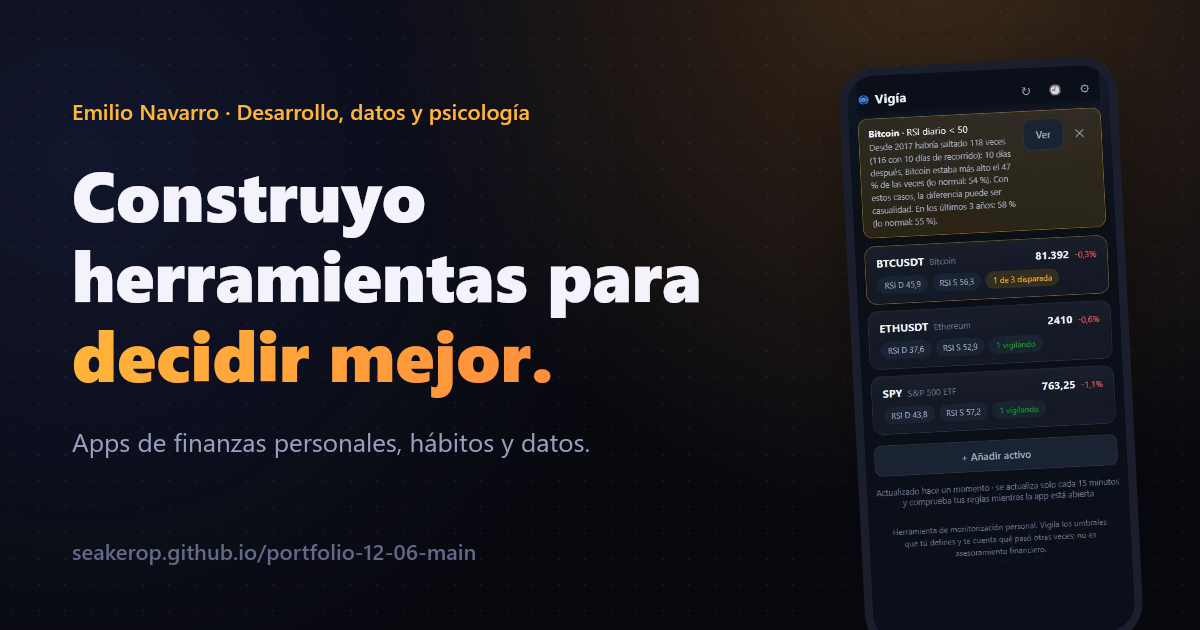
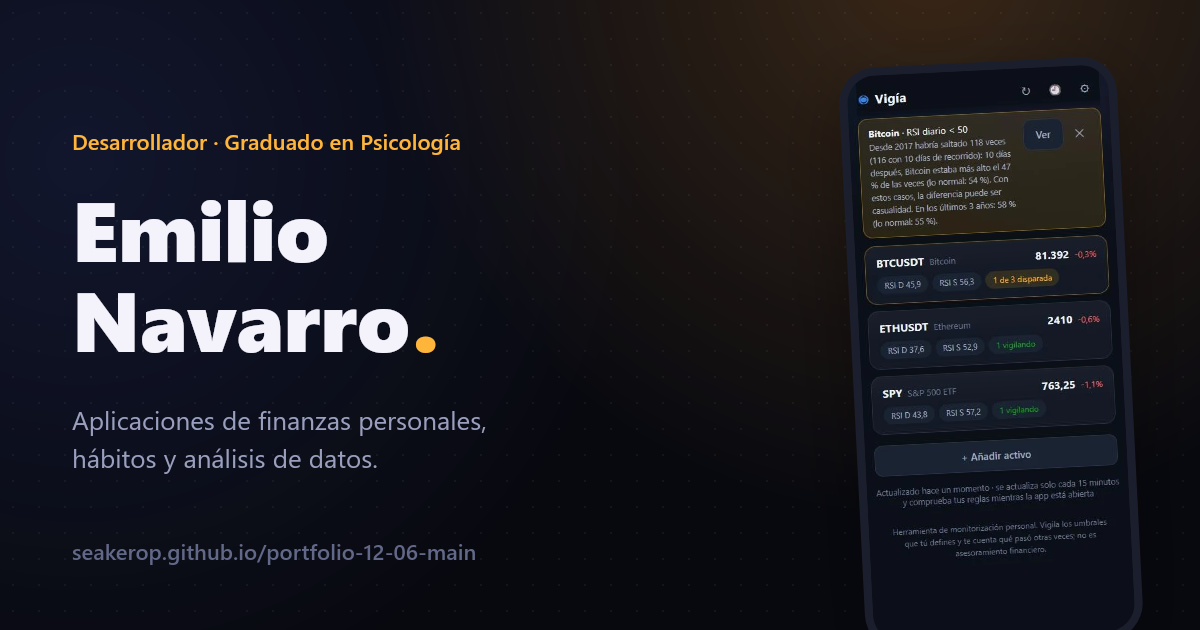
Textos más sobrios en todo el portfolio

Changed region(s): [[0.0617, 0.2714, 0.5858, 0.6333], [0.0617, 0.1508, 0.4317, 0.2413], [0.0617, 0.6635, 0.4933, 0.754]]

diff --git a/index.html b/index.html
@@ -5,13 +5,13 @@
   <meta charset="UTF-8" />
   <meta name="viewport" content="width=device-width, initial-scale=1.0" />
   <meta name="theme-color" content="#08090f" />
-  <title>Emilio Navarro · Desarrollo, datos y psicología</title>
+  <title>Emilio Navarro · Desarrollador y graduado en Psicología</title>
   <meta name="description"
-    content="Emilio Navarro: desarrollador (DAM) y graduado en Psicología. Construyo herramientas para decidir mejor: finanzas personales, hábitos y datos." />
+    content="Portfolio de Emilio Navarro, desarrollador de aplicaciones (DAM) y graduado en Psicología. Aplicaciones de finanzas personales, hábitos y análisis de datos." />
   <meta property="og:type" content="website" />
   <meta property="og:url" content="https://seakerop.github.io/portfolio-12-06-main/" />
-  <meta property="og:title" content="Emilio Navarro · Desarrollo, datos y psicología" />
-  <meta property="og:description" content="Herramientas para decidir mejor: finanzas personales, hábitos y datos." />
+  <meta property="og:title" content="Emilio Navarro · Desarrollador y graduado en Psicología" />
+  <meta property="og:description" content="Aplicaciones de finanzas personales, hábitos y análisis de datos." />
   <meta property="og:image" content="https://seakerop.github.io/portfolio-12-06-main/og.png" />
   <meta name="twitter:card" content="summary_large_image" />
   <link rel="icon"
@@ -40,21 +40,20 @@
     <!-- ═══ hero ═══ -->
     <section class="hero">
       <div class="hero-text">
-        <p class="eyebrow reveal">Emilio Navarro · Desarrollador y graduado en Psicología</p>
-        <h1 class="reveal">Construyo herramientas para <span class="hl">decidir mejor</span><span class="dot">.</span></h1>
+        <p class="eyebrow reveal">Desarrollador · Graduado en Psicología</p>
+        <h1 class="reveal">Emilio Navarro<span class="dot">.</span></h1>
         <p class="hero-sub reveal">
-          Apps de finanzas personales, hábitos y datos. Las programo como desarrollador y las pienso como psicólogo:
-          qué necesita saber quien las usa, y qué número le está engañando.
+          Desarrollo aplicaciones de finanzas personales, seguimiento de hábitos y análisis de datos. Técnico Superior
+          en Desarrollo de Aplicaciones Multiplataforma y graduado en Psicología.
         </p>
         <div class="hero-cta reveal">
           <a class="btn btn-solid" href="#proyectos">Ver proyectos</a>
-          <a class="btn btn-line" href="mailto:saldorf1994@gmail.com">Escríbeme</a>
+          <a class="btn btn-line" href="mailto:saldorf1994@gmail.com">Contacto</a>
           <a class="btn btn-ghost" href="https://github.com/seakerop" target="_blank" rel="noreferrer">GitHub ↗</a>
         </div>
         <ul class="proof reveal" aria-label="En cifras">
-          <li><b>4</b><span>apps publicadas</span></li>
+          <li><b>4</b><span>aplicaciones publicadas</span></li>
           <li><b>3</b><span>con demo en vivo</span></li>
-          <li><b>9,9</b><span>en el TFG de Psicología</span></li>
           <li><b>C2</b><span>de inglés</span></li>
         </ul>
       </div>
@@ -63,19 +62,17 @@
         <figure class="phone p-back"><img src="img/boveda/2-activo.webp" alt="" fetchpriority="high" /></figure>
         <figure class="phone p-front"><img src="img/vigia/1-avisos.webp" alt="" fetchpriority="high" /></figure>
         <figure class="phone p-side"><img src="img/fzth/1-home.webp" alt="" /></figure>
-        <span class="float-chip chip-a"><i class="led"></i> Demo en vivo</span>
-        <span class="float-chip chip-b mono">36 tests · PWA</span>
       </div>
     </section>
 
-    <p class="now reveal"><span class="pulse"></span> Ahora mismo: midiendo con cien años de datos qué indicadores de bolsa y de Bitcoin predicen algo de verdad. Spoiler: casi ninguno.</p>
+    <p class="now reveal"><span class="pulse"></span> Actualmente: estudio sobre la capacidad predictiva de los indicadores de inversión más usados en bolsa y en Bitcoin.</p>
 
     <!-- ═══ proyectos ═══ -->
     <section id="proyectos">
       <div class="sec-head reveal">
         <span class="sec-num mono">01</span>
         <h2>Proyectos</h2>
-        <p>Todo lo hago para usarlo yo. Por eso están vivos: siguen cambiando cada vez que algo me molesta.</p>
+        <p>Aplicaciones diseñadas y desarrolladas de principio a fin, que uso y mantengo.</p>
       </div>
 
       <!-- destacado: Vigía -->
@@ -85,24 +82,23 @@
             <h3>Vigía</h3>
             <span class="badge badge-new">Nuevo</span>
           </div>
-          <p class="lede">Alertas de mercado que te cuentan qué pasó las otras veces.</p>
+          <p class="lede">Alertas de mercado con contexto histórico.</p>
           <p>
-            Pongo umbrales sobre mi watchlist ("avísame si el RSI de Bitcoin baja de 30") y Vigía me avisa. Lo
-            distinto es que antes de guardar la regla la prueba contra años de historia de ese activo: cuántas veces
-            habría saltado y qué hizo el precio 5, 10 y 30 días después, frente a lo normal. Descubrí que muchas
-            señales clásicas no significan lo que se cree, así que la app lo dice en cada aviso.
+            Permite definir alertas sobre una lista de activos, por ejemplo cuando el RSI de Bitcoin baja de 30. Antes
+            de guardar cada regla, la contrasta con el histórico del activo: cuántas veces se habría activado y cómo
+            evolucionó el precio a 5, 10 y 30 días en comparación con la media. Ese resumen acompaña a cada aviso.
           </p>
           <ul class="checks">
-            <li>Repite la historia vela a vela con la misma lógica que los avisos reales</li>
-            <li>Prueba binomial con casos independientes y una mirada aparte a los últimos tres años</li>
-            <li>En Bitcoin, la fase del ciclo del halving con los datos de los ciclos anteriores</li>
+            <li>Simulación sobre el histórico con la misma lógica que las alertas reales</li>
+            <li>Contraste binomial con casos independientes y análisis aparte de los últimos tres años</li>
+            <li>Para Bitcoin, fase del ciclo del halving con datos de los ciclos anteriores</li>
           </ul>
           <div class="stack">
             <span>React</span><span>Vite</span><span>Estadística</span><span>Binance y Yahoo</span><span>Vitest</span><span>PWA</span>
           </div>
           <div class="card-links">
-            <a class="link-solid" href="https://vigia-fawn.vercel.app" target="_blank" rel="noreferrer">Abrir la demo ↗</a>
-            <button type="button" class="shots-link" data-shots="vigia">Cómo funciona →</button>
+            <a class="link-solid" href="https://vigia-fawn.vercel.app" target="_blank" rel="noreferrer">Ver demo ↗</a>
+            <button type="button" class="shots-link" data-shots="vigia">Capturas →</button>
             <a href="https://github.com/seakerop/vigia" target="_blank" rel="noreferrer">Código →</a>
           </div>
         </div>
@@ -120,14 +116,14 @@
           <div class="card-body">
             <div class="card-top"><h3>Bóveda</h3><span class="tag mono">Finanzas</span></div>
             <p>
-              Todo mi patrimonio en una pantalla —cripto, bolsa, el piso— con el neto de verdad: descuenta sola la
-              hipoteca cada mes y simula si conviene amortizar en cuota o en plazo. Cifrada entera en el dispositivo,
-              con desbloqueo por huella y una contraseña señuelo que abre una cartera falsa.
+              Gestor de patrimonio personal (criptomonedas, bolsa e inmuebles) que calcula el patrimonio neto
+              descontando la hipoteca mes a mes e incluye un simulador de amortización anticipada. Los datos se cifran
+              en el dispositivo, con desbloqueo biométrico y una contraseña alternativa que muestra una cartera ficticia.
             </p>
             <div class="stack"><span>React</span><span>Web Crypto</span><span>WebAuthn</span><span>IndexedDB</span></div>
             <div class="card-links">
               <a href="https://boveda-ivory.vercel.app" target="_blank" rel="noreferrer">Demo ↗</a>
-              <button type="button" class="shots-link" data-shots="boveda">Cómo funciona →</button>
+              <button type="button" class="shots-link" data-shots="boveda">Capturas →</button>
               <a href="https://github.com/seakerop/boveda" target="_blank" rel="noreferrer">Código →</a>
             </div>
           </div>
@@ -135,19 +131,19 @@
 
         <article class="card reveal">
           <div class="card-shot shot-gym">
-            <figure class="phone"><img src="img/fzth/1-home.webp" alt="Ficha del héroe en FromZeroToHero" loading="lazy" /></figure>
+            <figure class="phone"><img src="img/fzth/1-home.webp" alt="Pantalla principal de FromZeroToHero" loading="lazy" /></figure>
           </div>
           <div class="card-body">
             <div class="card-top"><h3>FromZeroToHero</h3><span class="tag mono">Hábitos</span></div>
             <p>
-              Voy al gimnasio, así que me hice el juego: cada sesión da experiencia y mi avatar es un árbol que crece
-              con los días en que hago algo. El peso corporal nunca da puntos. En el banco veo lo que levanté la
-              última vez, los récords saltan solos y los domingos le mando mi semana a mi hermano: nuestro pacto.
+              Seguimiento de entrenamiento con mecánicas de juego: cada sesión suma experiencia y el progreso se
+              representa con un árbol que crece con los días activos. Muestra las cargas de la sesión anterior, detecta
+              récords personales y genera un resumen semanal para compartir. El peso corporal no puntúa.
             </p>
             <div class="stack"><span>React</span><span>IndexedDB</span><span>SVG</span><span>PWA</span></div>
             <div class="card-links">
               <a href="https://seakerop.github.io/fromzerotohero/" target="_blank" rel="noreferrer">Demo ↗</a>
-              <button type="button" class="shots-link" data-shots="fzth">Cómo funciona →</button>
+              <button type="button" class="shots-link" data-shots="fzth">Capturas →</button>
               <a href="https://github.com/seakerop/fromzerotohero" target="_blank" rel="noreferrer">Código →</a>
             </div>
           </div>
@@ -155,18 +151,18 @@
 
         <article class="card reveal">
           <div class="card-shot shot-life">
-            <figure class="phone"><img src="img/lifecraft/2-home.webp" alt="Pantalla de juego de LifeCraft" loading="lazy" /></figure>
+            <figure class="phone"><img src="img/lifecraft/2-home.webp" alt="Pantalla principal de LifeCraft" loading="lazy" /></figure>
           </div>
           <div class="card-body">
             <div class="card-top"><h3>LifeCraft</h3><span class="tag mono">Hábitos</span></div>
             <p>
-              La fuerza de voluntad convertida en un juego de rol: cada hábito, bueno o malo, aplica un efecto con
-              duración real sobre mis atributos. Misiones diarias, un jefe semanal al que los hábitos dañan y los
-              vicios curan, y un códice con la fisiología real de cada efecto.
+              Seguimiento de hábitos planteado como un juego de rol: cada hábito aplica un efecto temporal sobre los
+              atributos del personaje. Incluye misiones diarias, un objetivo semanal y fichas informativas sobre el
+              efecto fisiológico de cada hábito.
             </p>
             <div class="stack"><span>React</span><span>Vite</span><span>IndexedDB</span><span>PWA</span></div>
             <div class="card-links">
-              <button type="button" class="shots-link" data-shots="lifecraft">Cómo funciona →</button>
+              <button type="button" class="shots-link" data-shots="lifecraft">Capturas →</button>
               <a href="https://github.com/seakerop/lifecraft" target="_blank" rel="noreferrer">Código →</a>
             </div>
           </div>
@@ -174,19 +170,19 @@
 
         <article class="card reveal">
           <div class="card-shot shot-cine">
-            <figure class="phone"><img src="img/cinematch/3-swipe.webp" alt="Mazo de películas en CineMatch" loading="lazy" /></figure>
+            <figure class="phone"><img src="img/cinematch/3-swipe.webp" alt="Catálogo de películas en CineMatch" loading="lazy" /></figure>
           </div>
           <div class="card-body">
             <div class="card-top"><h3>CineMatch</h3><span class="badge badge-wip">En desarrollo</span></div>
             <p>
-              En casa tardábamos más en elegir peli que en verla. Cada uno desliza en su móvil sobre el mismo mazo y
-              cuando los dos decimos que sí, hay match. Sesiones en tiempo real entre dispositivos y catálogo de TMDB
-              filtrado por plataforma, duración y lo que ya hemos visto.
+              Aplicación para elegir película entre varias personas: cada una valora el mismo catálogo desde su móvil
+              y la app muestra las coincidencias. Sesiones en tiempo real entre dispositivos y catálogo de TMDB filtrado
+              por plataforma, duración y títulos ya vistos.
             </p>
             <div class="stack"><span>React</span><span>Firebase</span><span>TMDB API</span><span>PWA</span></div>
             <div class="card-links">
-              <button type="button" class="shots-link" data-shots="cinematch">Cómo funciona →</button>
-              <span class="soon">Demo pronto</span>
+              <button type="button" class="shots-link" data-shots="cinematch">Capturas →</button>
+              <span class="soon">Demo próximamente</span>
             </div>
           </div>
         </article>
@@ -198,24 +194,23 @@
       <div class="sec-head reveal">
         <span class="sec-num mono">02</span>
         <h2>Perfil</h2>
-        <p>Un perfil poco habitual: código, datos y psicología en la misma cabeza.</p>
       </div>
 
       <div class="pillars">
         <div class="pillar reveal">
           <span class="pillar-k mono">Producto</span>
-          <h3>Apps pequeñas y terminadas</h3>
-          <p>Prefiero una herramienta cuidada a una grande a medias: estados vacíos, errores que se explican, que funcione sin conexión y con pruebas automáticas detrás.</p>
+          <h3>Desarrollo de aplicaciones</h3>
+          <p>Aplicaciones completas y mantenidas: funcionamiento sin conexión, gestión de errores y pruebas automáticas.</p>
         </div>
         <div class="pillar reveal">
           <span class="pillar-k mono">Datos</span>
-          <h3>Medir antes de creer</h3>
-          <p>Antes de fiarme de una regla, la pongo a prueba con datos: correlaciones, bootstrap, corrección por comparaciones múltiples. Si no aguanta, se dice.</p>
+          <h3>Análisis de datos</h3>
+          <p>Validación de hipótesis con datos: correlaciones, bootstrap y corrección por comparaciones múltiples.</p>
         </div>
         <div class="pillar reveal">
           <span class="pillar-k mono">Personas</span>
-          <h3>Diseñar para cómo decidimos</h3>
-          <p>La psicología me sirve para lo que no sale en el código: qué motiva a volver, qué frustra y qué número nos lleva a engaño.</p>
+          <h3>Psicología aplicada</h3>
+          <p>Formación en psicología aplicada al diseño: motivación, toma de decisiones y experiencia de uso.</p>
         </div>
       </div>
 
@@ -227,7 +222,7 @@
               <span class="when mono">2026</span>
               <div>
                 <b>Grado en Psicología</b> · UNIR
-                <p>TFG sobre alfabetización financiera y bienestar, con un 9,9. <a href="https://reunir.unir.net/handle/123456789/23557" target="_blank" rel="noreferrer">Publicado en Re-UNIR ↗</a></p>
+                <p>TFG sobre alfabetización financiera y bienestar. <a href="https://reunir.unir.net/handle/123456789/23557" target="_blank" rel="noreferrer">Publicado en Re-UNIR ↗</a></p>
               </div>
             </li>
             <li>
@@ -240,14 +235,14 @@
               <span class="when mono">2025</span>
               <div>
                 <b>Prácticas de desarrollo RPA</b> · NEORIS
-                <p>Robots de automatización con UiPath dentro de un equipo de consultoría: análisis del proceso, construcción, pruebas y documentación.</p>
+                <p>Desarrollo de robots de automatización con UiPath en un equipo de consultoría: análisis de procesos, construcción, pruebas y documentación.</p>
               </div>
             </li>
             <li>
               <span class="when mono">2019–21</span>
               <div>
                 <b>Líder de equipo de ayuda humanitaria</b> · YWAM, EE. UU.
-                <p>Coordinación de voluntarios en equipos multiculturales: planificar, repartir responsabilidades y seguir objetivos.</p>
+                <p>Coordinación de voluntarios en equipos multiculturales: planificación, reparto de responsabilidades y seguimiento de objetivos.</p>
               </div>
             </li>
           </ol>
@@ -255,7 +250,7 @@
 
         <div class="side-blocks">
           <div class="block reveal">
-            <h3 class="block-title">Con qué trabajo</h3>
+            <h3 class="block-title">Tecnologías</h3>
             <div class="stack">
               <span>JavaScript</span><span>TypeScript</span><span>React</span><span>Node.js</span><span>Java</span><span>Kotlin</span>
               <span>SQL</span><span>Firebase</span><span>IndexedDB</span><span>Vitest y Jest</span><span>Git</span><span>UiPath</span>
@@ -274,11 +269,11 @@
     <section id="contacto">
       <div class="contact reveal">
         <span class="sec-num mono">03</span>
-        <h2>¿Hablamos?</h2>
-        <p>Busco mi primer puesto en un equipo de producto, datos o desarrollo, y proyectos donde haga falta entender a las personas además de al código.</p>
+        <h2>Contacto</h2>
+        <p>Abierto a oportunidades en equipos de producto, datos o desarrollo.</p>
         <a class="mail" href="mailto:saldorf1994@gmail.com">saldorf1994@gmail.com</a>
         <div class="hero-cta">
-          <a class="btn btn-solid" href="mailto:saldorf1994@gmail.com">Escríbeme</a>
+          <a class="btn btn-solid" href="mailto:saldorf1994@gmail.com">Enviar un correo</a>
           <a class="btn btn-line" href="https://github.com/seakerop" target="_blank" rel="noreferrer">GitHub ↗</a>
         </div>
       </div>
@@ -299,7 +294,7 @@
   </div>
 
   <footer>
-    <p>© 2026 Emilio Navarro · Hecho a mano, sin plantillas</p>
+    <p>© 2026 Emilio Navarro</p>
   </footer>
 
   <script>
@@ -312,54 +307,54 @@
     )
     document.querySelectorAll('.reveal').forEach((el) => io.observe(el))
 
-    // galería "cómo funciona": capturas + explicación por proyecto
+    // galería de capturas con una explicación por pantalla
     const GALLERIES = {
       vigia: {
         title: 'Vigía',
         shots: [
-          { src: 'img/vigia/1-avisos.webp', cap: 'La watchlist con un aviso recién saltado. No dice solo que el RSI bajó de 50: dice que, desde 2017, esa misma regla habría saltado 118 veces y que diez días después Bitcoin no estaba mejor que cualquier otro día.' },
-          { src: 'img/vigia/2-ficha.webp', cap: 'La ficha de cada activo: velas y RSI calculados con el mismo código que evalúa las reglas, para que lo que veo sea exactamente lo que vigila.' },
-          { src: 'img/vigia/3-probador.webp', cap: 'El probador: mientras ajusto el umbral, prueba la regla contra la historia del activo y compara con lo normal a 5, 10 y 30 días. Comprar Bitcoin con el RSI por debajo de 30 no ha dado ventaja, y en los últimos tres años, menos.' },
-          { src: 'img/vigia/4-ciclo.webp', cap: 'En Bitcoin, la fase del ciclo del halving y lo que pasó en esa fase en los ciclos anteriores. Debajo, cada regla con su resumen histórico.' },
+          { src: 'img/vigia/1-avisos.webp', cap: 'Lista de activos con un aviso activo. Junto a la regla aparece su resumen histórico: número de veces que se habría activado desde 2017 y evolución del precio a 10 días comparada con la media.' },
+          { src: 'img/vigia/2-ficha.webp', cap: 'Ficha de cada activo con velas y RSI, calculados con el mismo código que evalúa las reglas.' },
+          { src: 'img/vigia/3-probador.webp', cap: 'Al crear una regla, la aplicación la contrasta con el histórico del activo y muestra los resultados a 5, 10 y 30 días frente a la media, con una indicación de si la diferencia es significativa.' },
+          { src: 'img/vigia/4-ciclo.webp', cap: 'En Bitcoin, fase actual del ciclo del halving y comportamiento del precio en esa fase durante los ciclos anteriores. Debajo, cada regla con su resumen histórico.' },
         ],
       },
       fzth: {
         title: 'FromZeroToHero',
         shots: [
-          { src: 'img/fzth/1-home.webp', cap: 'La ficha del héroe: etapa del viaje, nivel y atributos que salen de lo que hago — nunca de lo que peso. El árbol es mi avatar: crece con los días en que entreno, camino o registro, y jamás retrocede. Si algo cambió desde mi última visita, me lo susurra.' },
-          { src: 'img/fzth/2-arbol.webp', cap: 'La ficha del árbol con su crónica: cada pocos días de acción aparece algo nuevo — una raíz, una hoja, un nido — y la estación real del calendario lo viste. Los momentos futuros se ven en gris con su día: transparencia antes que misterio.' },
-          { src: 'img/fzth/3-entreno.webp', cap: 'El modo entreno, para usarlo en el banco: cada ejercicio me enseña lo que levanté la última vez y prellena las series con ello. Botones grandes, temporizador de descanso y reordenar sobre la marcha.' },
-          { src: 'img/fzth/4-ficha.webp', cap: 'La técnica a un toque: 52 ejercicios con qué músculos trabajan, dos o tres claves y el error típico. Guías sobrias, con el recordatorio de que no sustituyen a un entrenador.' },
-          { src: 'img/fzth/5-progreso.webp', cap: 'Cada punto es una sesión: mejor peso y 1RM estimado por ejercicio. Los PRs se detectan solos, y la primera vez con un ejercicio solo pone el listón — no hay récord regalado.' },
-          { src: 'img/fzth/6-gesta.webp', cap: 'El pacto: los domingos comparto mi semana con mi hermano como imagen — nivel, racha, árbol y el XP de la semana. Sin servidor y sin contadores de culpa: se comparte exactamente lo que ves, nada más.' },
+          { src: 'img/fzth/1-home.webp', cap: 'Pantalla principal: nivel, atributos y el árbol que representa el progreso, que crece con los días de actividad. Los atributos se calculan a partir de la actividad registrada, nunca del peso corporal.' },
+          { src: 'img/fzth/2-arbol.webp', cap: 'Detalle del árbol con su historial: cada cierto número de días activos se añade un elemento nuevo, y su aspecto cambia con la estación del año.' },
+          { src: 'img/fzth/3-entreno.webp', cap: 'Modo entrenamiento: cada ejercicio muestra las cargas de la sesión anterior y precarga las series. Incluye temporizador de descanso.' },
+          { src: 'img/fzth/4-ficha.webp', cap: 'Fichas de técnica de 52 ejercicios: músculos implicados, puntos clave y errores habituales.' },
+          { src: 'img/fzth/5-progreso.webp', cap: 'Evolución por ejercicio: mejor peso y 1RM estimado por sesión, con detección automática de récords personales.' },
+          { src: 'img/fzth/6-gesta.webp', cap: 'Resumen semanal en formato imagen para compartir: nivel, racha y experiencia de la semana.' },
         ],
       },
       lifecraft: {
         title: 'LifeCraft',
         shots: [
-          { src: 'img/lifecraft/1-creacion.webp', cap: 'Creo mi héroe: elijo retrato y marco qué hábitos quiero cultivar y qué vicios vigilar. Solo eso aparece luego en mi barra de acciones.' },
-          { src: 'img/lifecraft/2-home.webp', cap: 'La pantalla de juego. Lanzo una habilidad y se convierte en un aura con duración real; mis atributos y mi poder suben con las auras activas, y todo queda en el registro de combate.' },
-          { src: 'img/lifecraft/3-codice.webp', cap: 'El códice: cada hábito y suplemento con su explicación fisiológica real, basada en fuentes científicas y con el aviso de que no sustituye a un profesional.' },
-          { src: 'img/lifecraft/4-misiones.webp', cap: 'Misiones diarias que dan XP extra y un jefe semanal: cada buen hábito le hace daño y cada vicio lo cura. Si cae antes del lunes, recompensa.' },
-          { src: 'img/lifecraft/5-cronica.webp', cap: 'La crónica: un mapa de calor del mes (cuanto más verde, más hábitos ese día) y los logros que voy desbloqueando.' },
+          { src: 'img/lifecraft/1-creacion.webp', cap: 'Creación del personaje: selección de los hábitos que se quieren fomentar y de los que se quieren controlar.' },
+          { src: 'img/lifecraft/2-home.webp', cap: 'Pantalla principal: cada hábito registrado aplica un efecto temporal que modifica los atributos del personaje.' },
+          { src: 'img/lifecraft/3-codice.webp', cap: 'Fichas informativas sobre el efecto fisiológico de cada hábito, con referencias y la advertencia de que no sustituyen el consejo profesional.' },
+          { src: 'img/lifecraft/4-misiones.webp', cap: 'Misiones diarias y un objetivo semanal que avanza con los hábitos positivos y retrocede con los negativos.' },
+          { src: 'img/lifecraft/5-cronica.webp', cap: 'Historial mensual en forma de mapa de calor y logros desbloqueados.' },
         ],
       },
       boveda: {
         title: 'Bóveda',
         shots: [
-          { src: 'img/boveda/1-patrimonio.webp', cap: 'Todo mi patrimonio en una pantalla: el donut reparte cripto, bolsa, inmuebles y cash, y el neto ya descuenta la hipoteca.' },
-          { src: 'img/boveda/2-activo.webp', cap: 'Cada activo tiene su ficha con la gráfica de velas semanales; los precios de cripto y bolsa se actualizan solos, sin ninguna API key.' },
-          { src: 'img/boveda/3-hipoteca.webp', cap: 'El simulador de amortización: meto un importe y me compara reducir cuota contra reducir plazo, con el ahorro real en intereses.' },
-          { src: 'img/boveda/4-privacidad.webp', cap: 'Modo privacidad: un toque y todas las cifras se ocultan, para poder abrir la app sin enseñar mi patrimonio a quien tenga al lado.' },
+          { src: 'img/boveda/1-patrimonio.webp', cap: 'Resumen del patrimonio por tipo de activo, con el patrimonio neto ya descontada la hipoteca.' },
+          { src: 'img/boveda/2-activo.webp', cap: 'Ficha de cada activo con gráfica de velas semanales. Los precios de criptomonedas y bolsa se actualizan automáticamente.' },
+          { src: 'img/boveda/3-hipoteca.webp', cap: 'Simulador de amortización anticipada: compara reducir cuota frente a reducir plazo y calcula el ahorro en intereses.' },
+          { src: 'img/boveda/4-privacidad.webp', cap: 'Modo privacidad: oculta todas las cifras con un toque.' },
         ],
       },
       cinematch: {
         title: 'CineMatch',
         shots: [
-          { src: 'img/cinematch/1-inicio.webp', cap: 'Tres formas de jugar: en dos móviles con un código de sesión, uniéndote a una sala con ese código, o pasándoos un solo móvil por turnos.' },
-          { src: 'img/cinematch/2-setup.webp', cap: 'Antes de empezar elegís las plataformas que tenéis, el tipo (pelis, series, docus), el año, la duración máxima y el tamaño del mazo.' },
-          { src: 'img/cinematch/3-swipe.webp', cap: 'Cada uno desliza su mazo: corazón si te apetece, equis si no, y el ojo para ver más. El póster y los datos vienen de TMDB.' },
-          { src: 'img/cinematch/4-match.webp', cap: 'Al final salen las películas en las que todos coincidisteis. Se acabó el «elige tú».' },
+          { src: 'img/cinematch/1-inicio.webp', cap: 'Tres modos: sesión entre dos móviles con código, unirse a una sesión existente o un solo móvil por turnos.' },
+          { src: 'img/cinematch/2-setup.webp', cap: 'Configuración de la sesión: plataformas, tipo de contenido, año, duración máxima y número de títulos.' },
+          { src: 'img/cinematch/3-swipe.webp', cap: 'Cada participante valora los títulos del catálogo. Los datos y carteles proceden de TMDB.' },
+          { src: 'img/cinematch/4-match.webp', cap: 'Resultado: los títulos que han gustado a todos los participantes.' },
         ],
       },
     }
@@ -377,7 +372,7 @@
       const g = GALLERIES[key]
       if (!g) return
       lastFocus = document.activeElement
-      lbTitle.innerHTML = g.title + ' <small>desliza para ver →</small>'
+      lbTitle.innerHTML = g.title + ' <small>desliza para ver más →</small>'
       lbTrack.innerHTML = g.shots
         .map((s) => `<figure class="lb-shot"><img src="${s.src}" alt="" loading="lazy" decoding="async" /><p>${s.cap}</p></figure>`)
         .join('')
